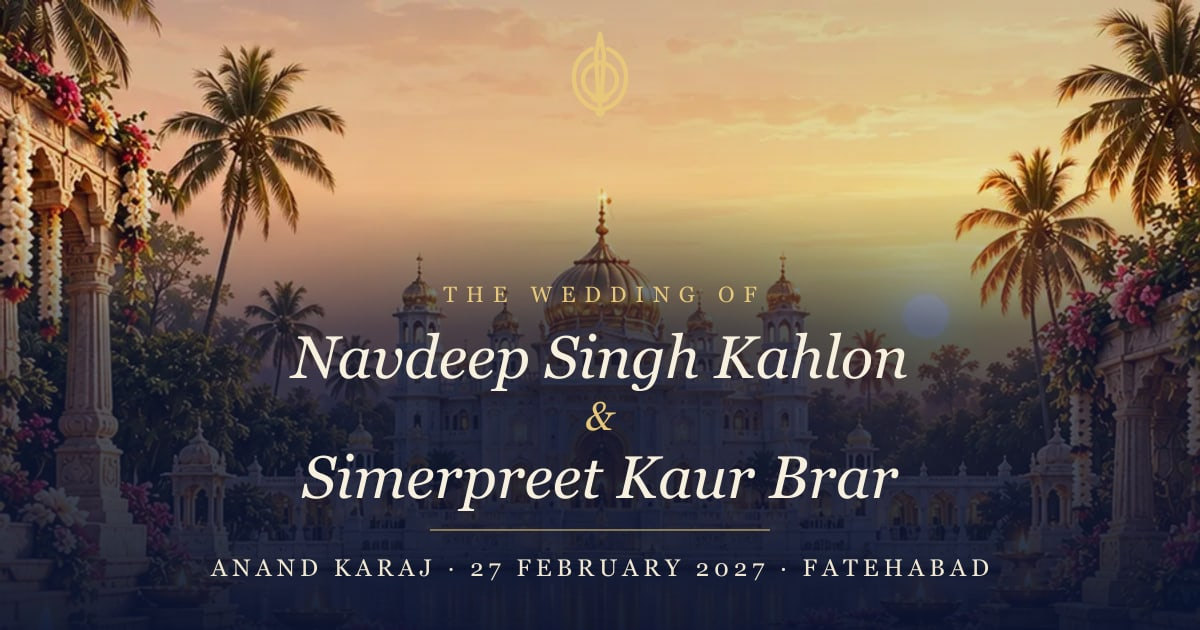
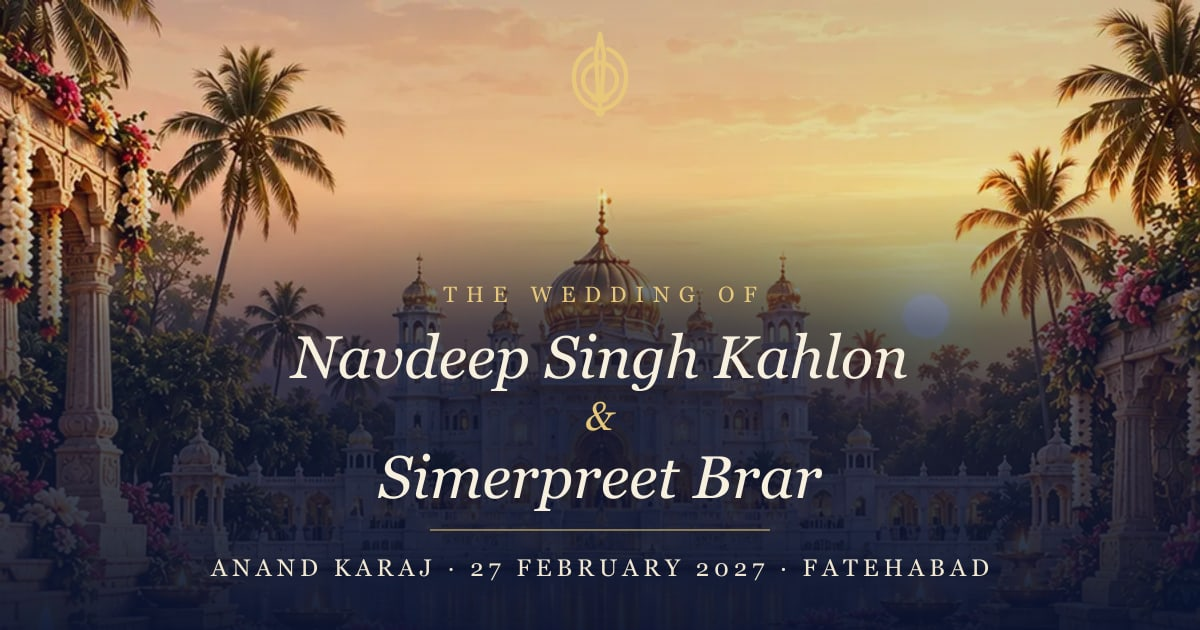
navdeep-simerpreet-wedding: bride's name, invitation message and a clearer script (client, 28 Nov).
- "Simerpreet Kaur Brar" → "Simerpreet Brar" everywhere: cover, families, closing, calendar entries and files,
  page title and sharing tags, the link-preview picture (og.jpg?v=2).
- The invitation message is the client's wording exactly: "With the blessings of Waheguru Ji," then two
  paragraphs (invite.line may now be a list).
- Every name and title set in Pinyon Script (whose S was hard to read) is now Playfair Display italic, a step
  smaller; nothing else in the typography changes. Dates, times, venues, maps and calendar behaviour unchanged.
- tools/navdeep-simerpreet.mjs rewrites the twitter tags every run.

Changed region(s): [[0.2467, 0.7238, 0.74, 0.8143]]

diff --git a/public/navdeep-simerpreet-wedding/index.html b/public/navdeep-simerpreet-wedding/index.html
@@ -4,8 +4,8 @@
 <meta charset="utf-8">
 <meta name="viewport" content="width=device-width, initial-scale=1, viewport-fit=cover">
 <meta name="robots" content="noindex">
-<title>Navdeep Singh Kahlon &amp; Simerpreet Kaur Brar | Wedding Invitation</title>
-<meta name="description" content="With the blessings of Sri Guru Granth Sahib Ji, Sardar Amarjeet Singh Kahlon &amp; Sardarni Harpreet Kaur invite you to the wedding of their son Navdeep Singh Kahlon with Simerpreet Kaur Brar. Jago Night: Friday, 26 February 2027, 6:00 PM onwards. Anand Karaj: Saturday, 27 February 2027, 10:00 AM at Gurudwara Jhad Sahib. Wedding: 11:00 AM at Sheesh Mahal Resorts, Fatehabad.">
+<title>Navdeep Singh Kahlon &amp; Simerpreet Brar | Wedding Invitation</title>
+<meta name="description" content="With the blessings of Sri Guru Granth Sahib Ji, Sardar Amarjeet Singh Kahlon &amp; Sardarni Harpreet Kaur invite you to the wedding of their son Navdeep Singh Kahlon with Simerpreet Brar. Jago Night: Friday, 26 February 2027, 6:00 PM onwards. Anand Karaj: Saturday, 27 February 2027, 10:00 AM at Gurudwara Jhad Sahib. Wedding: 11:00 AM at Sheesh Mahal Resorts, Fatehabad.">
 <meta name="author" content="Invitivals">
 <meta name="theme-color" content="#1b2a52">
 <meta property="og:type" content="website">
@@ -13,17 +13,17 @@
 <meta property="og:locale" content="en_IN">
 <link rel="canonical" href="https://invitivals.com/navdeep-simerpreet-wedding/">
 <meta property="og:url" content="https://invitivals.com/navdeep-simerpreet-wedding/">
-<meta property="og:title" content="Navdeep Singh Kahlon &amp; Simerpreet Kaur Brar | Wedding Invitation">
+<meta property="og:title" content="Navdeep Singh Kahlon &amp; Simerpreet Brar | Wedding Invitation">
 <meta property="og:description" content="Anand Karaj · Saturday, 27 February 2027 · Fatehabad. Tap to open the invitation.">
-<meta property="og:image" content="https://invitivals.com/navdeep-simerpreet-wedding/assets/og.jpg?v=1">
+<meta property="og:image" content="https://invitivals.com/navdeep-simerpreet-wedding/assets/og.jpg?v=2">
 <meta property="og:image:type" content="image/jpeg">
 <meta property="og:image:width" content="1200">
 <meta property="og:image:height" content="630">
-<meta property="og:image:alt" content="Navdeep Singh Kahlon &amp; Simerpreet Kaur Brar — Wedding Invitation, Anand Karaj 27 February 2027, Fatehabad">
+<meta property="og:image:alt" content="Navdeep Singh Kahlon &amp; Simerpreet Brar — Wedding Invitation, Anand Karaj 27 February 2027, Fatehabad">
 <meta name="twitter:card" content="summary_large_image">
-<meta name="twitter:title" content="Navdeep Singh Kahlon &amp; Simerpreet Kaur Brar | Wedding Invitation">
+<meta name="twitter:title" content="Navdeep Singh Kahlon &amp; Simerpreet Brar | Wedding Invitation">
 <meta name="twitter:description" content="Anand Karaj · Saturday, 27 February 2027 · Fatehabad. Tap to open the invitation.">
-<meta name="twitter:image" content="https://invitivals.com/navdeep-simerpreet-wedding/assets/og.jpg?v=1">
+<meta name="twitter:image" content="https://invitivals.com/navdeep-simerpreet-wedding/assets/og.jpg?v=2">
 <meta name="color-scheme" content="light">
 <meta name="apple-mobile-web-app-title" content="Navdeep &amp; Simerpreet">
 <link rel="icon" href="favicon.svg" type="image/svg+xml">
@@ -32,12 +32,12 @@
 <link rel="preload" as="image" href="assets/couple.webp">
 <link rel="preload" as="image" href="assets/khanda.webp">
 
-<script type="importmap">{"imports":{"./config.js":"./config.js?v=0b5ff7cbff","./js/app.js":"./js/app.js?v=97447d9f91","./js/cal-all.js":"./js/cal-all.js?v=ed811bf561","./js/calendar.js":"./js/calendar.js?v=68962702ab","./js/decor.js":"./js/decor.js?v=dbb375037b","./js/links.js":"./js/links.js?v=038f5956fe","./js/menu.js":"./js/menu.js?v=bb47c5fed2","./js/motion.js":"./js/motion.js?v=44f2f8d14c","./js/music.js":"./js/music.js?v=aa715455c3","./js/sections/closing.js":"./js/sections/closing.js?v=f0112c38f0","./js/sections/countdown.js":"./js/sections/countdown.js?v=031745a0a3","./js/sections/events.js":"./js/sections/events.js?v=7fd0f8b7a0","./js/sections/gallery.js":"./js/sections/gallery.js?v=87f15178f7","./js/sections/getting-here.js":"./js/sections/getting-here.js?v=0dab4498d4","./js/sections/hero.js":"./js/sections/hero.js?v=b1e41e7b44","./js/sections/intro.js":"./js/sections/intro.js?v=79f2a28af1","./js/sections/welcome.js":"./js/sections/welcome.js?v=c46180f10a","./js/util.js":"./js/util.js?v=6fd7721348"}}</script>
+<script type="importmap">{"imports":{"./config.js":"./config.js?v=c5ab65fab9","./js/app.js":"./js/app.js?v=97447d9f91","./js/cal-all.js":"./js/cal-all.js?v=ed811bf561","./js/calendar.js":"./js/calendar.js?v=498316a619","./js/decor.js":"./js/decor.js?v=dbb375037b","./js/links.js":"./js/links.js?v=038f5956fe","./js/menu.js":"./js/menu.js?v=bb47c5fed2","./js/motion.js":"./js/motion.js?v=44f2f8d14c","./js/music.js":"./js/music.js?v=aa715455c3","./js/sections/closing.js":"./js/sections/closing.js?v=f0112c38f0","./js/sections/countdown.js":"./js/sections/countdown.js?v=031745a0a3","./js/sections/events.js":"./js/sections/events.js?v=7fd0f8b7a0","./js/sections/gallery.js":"./js/sections/gallery.js?v=87f15178f7","./js/sections/getting-here.js":"./js/sections/getting-here.js?v=0dab4498d4","./js/sections/hero.js":"./js/sections/hero.js?v=3f9ec25930","./js/sections/intro.js":"./js/sections/intro.js?v=79f2a28af1","./js/sections/welcome.js":"./js/sections/welcome.js?v=c46180f10a","./js/util.js":"./js/util.js?v=6fd7721348"}}</script>
 <link rel="modulepreload" href="js/app.js?v=97447d9f91">
 <link rel="preconnect" href="https://fonts.googleapis.com">
 <link rel="preconnect" href="https://fonts.gstatic.com" crossorigin>
-<link href="https://fonts.googleapis.com/css2?family=Cinzel:wght@400;500;600&family=Cormorant+Garamond:ital,wght@0,400;0,500;0,600;1,400;1,500&family=Pinyon+Script&display=swap" rel="stylesheet">
-<link rel="stylesheet" href="css/invite.css?v=229ef850fa">
+<link href="https://fonts.googleapis.com/css2?family=Cinzel:wght@400;500;600&family=Cormorant+Garamond:ital,wght@0,400;0,500;0,600;1,400;1,500&family=Pinyon+Script&family=Playfair+Display:ital,wght@1,500&display=swap" rel="stylesheet">
+<link rel="stylesheet" href="css/invite.css?v=6735134a95">
 </head>
 <body>
 <a class="skip" href="#invite">Skip to the invitation</a>

diff --git a/public/navdeep-simerpreet-wedding/config.js b/public/navdeep-simerpreet-wedding/config.js
@@ -1,5 +1,5 @@
 /* ─────────────────────────────────────────────────────────────
-   Navdeep Singh Kahlon & Simerpreet Kaur Brar — Sikh wedding invitation from
+   Navdeep Singh Kahlon & Simerpreet Brar — Sikh wedding invitation from
    the groom's family (client brief 2026-11-25). A separate page on the design
    the client chose (public/amandeep-ishpreet-wedding, never edited for this),
    copied from the engine of public/manbir-arshleen-wedding (also never edited
@@ -27,7 +27,7 @@ const MAP = {
 
 export const weddingConfig = {
   groomName: 'Navdeep Singh Kahlon',
-  brideName: 'Simerpreet Kaur Brar',
+  brideName: 'Simerpreet Brar',
   shortGroom: 'Navdeep',
   shortBride: 'Simerpreet',
   /* the invitation is from the groom's family: the groom and his family stand first */
@@ -39,8 +39,12 @@ export const weddingConfig = {
   invite: {
     motto: ['Together in Faith', 'Forever in Love'],
     tagline: ['Two Souls', 'One Journey', 'Blessed by Guru Sahib'],
-    eyebrow: ['With the blessings of Waheguru Ji,', 'we joyfully invite you'],
-    line: 'to grace the wedding of our son Navdeep Singh Kahlon with Simerpreet Kaur Brar, and to bless the couple in the presence of Guru Sahib.',
+    /* the client's own wording (2026-11-28), exactly: the opening line, then two paragraphs */
+    eyebrow: ['With the blessings of Waheguru Ji,'],
+    line: [
+      'We joyfully invite you to grace the wedding ceremony of our beloved son Navdeep Singh Kahlon with Simerpreet Brar.',
+      'We warmly invite you to join us and shower the couple with your love and blessings in the divine presence of Guru Sahib.',
+    ],
     /* who the invitation is from: the groom's parents, as the client gave their names */
     from: { label: 'Invitation From', lines: ['Sardar Amarjeet Singh Kahlon', '& Sardarni Harpreet Kaur'] },
   },
@@ -49,7 +53,7 @@ export const weddingConfig = {
 
   /* ?to=Name in the link greets each guest personally; this is used when there is none */
   guestFallback: 'You & Your Family',
-  shareText: 'With the blessings of Guru Sahib — the wedding of Navdeep Singh Kahlon & Simerpreet Kaur Brar · Anand Karaj, Saturday 27 February 2027, Fatehabad',
+  shareText: 'With the blessings of Guru Sahib — the wedding of Navdeep Singh Kahlon & Simerpreet Brar · Anand Karaj, Saturday 27 February 2027, Fatehabad',
 
   /* the Anand Karaj — the main ceremony everything counts down to */
   weddingDate: '2027-02-27T10:00:00+05:30',
@@ -75,7 +79,7 @@ export const weddingConfig = {
     heading: 'With the Blessings of Our Families',
     sub: '',
     groom: { label: 'Groom’s Family', person: 'Navdeep Singh Kahlon', relation: 'Son of', parents: ['Sardar Amarjeet Singh Kahlon', 'Sardarni Harpreet Kaur'] },
-    bride: { label: 'Bride’s Family', person: 'Simerpreet Kaur Brar', relation: 'Daughter of', parents: ['Sardar Lakhbir Singh Brar', 'Sardarni Rajwinder Kaur'] },
+    bride: { label: 'Bride’s Family', person: 'Simerpreet Brar', relation: 'Daughter of', parents: ['Sardar Lakhbir Singh Brar', 'Sardarni Rajwinder Kaur'] },
   },
 
   story: null,

diff --git a/public/navdeep-simerpreet-wedding/css/invite.css b/public/navdeep-simerpreet-wedding/css/invite.css
@@ -755,3 +755,21 @@ html.is-open .intro{opacity:0;pointer-events:none}
 .fam-parents{text-wrap:balance}
 /* section headings break evenly ("With the Blessings of / Our Families", never "… of Our / Families") */
 .sec-head > *{text-wrap:balance}
+
+/* ── client, 2026-11-28: a script whose S reads clearly. Pinyon Script made the S of Simerpreet, Sardar, Sardarni
+   and Singh hard to recognise; every name and title once set in it is now Playfair Display italic (an elegant,
+   very legible serif italic), a step smaller because it is wider. Nothing else in the typography changes. ── */
+:root{--script:'Playfair Display','Cormorant Garamond',Georgia,serif}
+.script,.intro-guest > span,.names .name,.monogram span,.closing-names,.invite-guest span,.rsvp-guest b,.fam-person,.if-name,.if-sub,.dress-text,.rsvp-who,.db-title,.cal-one .cal-one-name{font-style:italic;font-weight:500;letter-spacing:.005em}
+.names .name{font-size:clamp(1.8rem,8.6vw,2.4rem);line-height:1.18}
+.intro-guest > span{font-size:clamp(1.35rem,7vw,1.8rem)}
+.fam-person{font-size:min(1.55rem,6.8vw);line-height:1.3}
+.if-name{font-size:min(1.7rem,6.4vw);line-height:1.35}
+.if-sub{font-size:min(1.35rem,5.3vw);line-height:1.35}
+.db-title{font-size:clamp(1.25rem,5.8vw,1.9rem)}
+.closing-names{font-size:1.65rem;line-height:1.2}
+.monogram span{font-size:1.9rem}
+.cal-one .cal-one-name{font-size:1.6rem}
+/* the invitation's two paragraphs */
+.invite-line{max-width:34ch;margin-left:auto;margin-right:auto;text-wrap:pretty}
+.invite-line + .invite-line{margin-top:12px}

diff --git a/public/navdeep-simerpreet-wedding/js/calendar.js b/public/navdeep-simerpreet-wedding/js/calendar.js
@@ -19,7 +19,7 @@ const whenLine = (ev) => new Date(ev.date).toLocaleDateString('en-GB', { weekday
 const attr = (s) => String(s ?? '').replace(/&/g, '&amp;').replace(/"/g, '&quot;');
 
 export const eventDetails = (cfg, ev) => ({
-  title: `${ev.name} – ${couple(cfg).join(' & ')}`,   // the client's calendar title, e.g. Jago Night – Navdeep Singh Kahlon & Simerpreet Kaur Brar
+  title: `${ev.name} – ${couple(cfg).join(' & ')}`,   // the client's calendar title, e.g. Jago Night – Navdeep Singh Kahlon & Simerpreet Brar
   start: ev.date,
   end: ev.main && cfg.weddingEnd ? cfg.weddingEnd : ev.date,   // only start times were supplied: no invented end (Google Calendar gets start = end)
   /* a short description: whose wedding, the Gurmukhi name of the venue, its map, the invitation's address */

diff --git a/public/navdeep-simerpreet-wedding/js/sections/hero.js b/public/navdeep-simerpreet-wedding/js/sections/hero.js
@@ -58,7 +58,7 @@ export const InviteBlock = (cfg, guest) => {
   ${guest ? `<p class="invite-guest" data-reveal><small>Dear</small><span>${escScript(guest)}</span></p>` : ''}
   ${cfg.invite.placement === 'blessing' ? '' : `
   <p class="eyebrow-lines" data-reveal>${cfg.invite.eyebrow.map(esc).join('<br>')}</p>
-  <p class="invite-line" data-reveal>${esc(cfg.invite.line)}</p>`}
+  ${[].concat(cfg.invite.line).map((l) => `<p class="invite-line" data-reveal>${esc(l)}</p>`).join('')}`}
   ${cfg.invite.from ? `<div class="invite-from" data-reveal>
     <p class="if-label">${esc(cfg.invite.from.label)}</p>
     ${cfg.invite.from.lines.map((l, i) => `<p class="${i ? 'if-sub' : 'if-name'}">${escScript(l)}</p>`).join('')}
